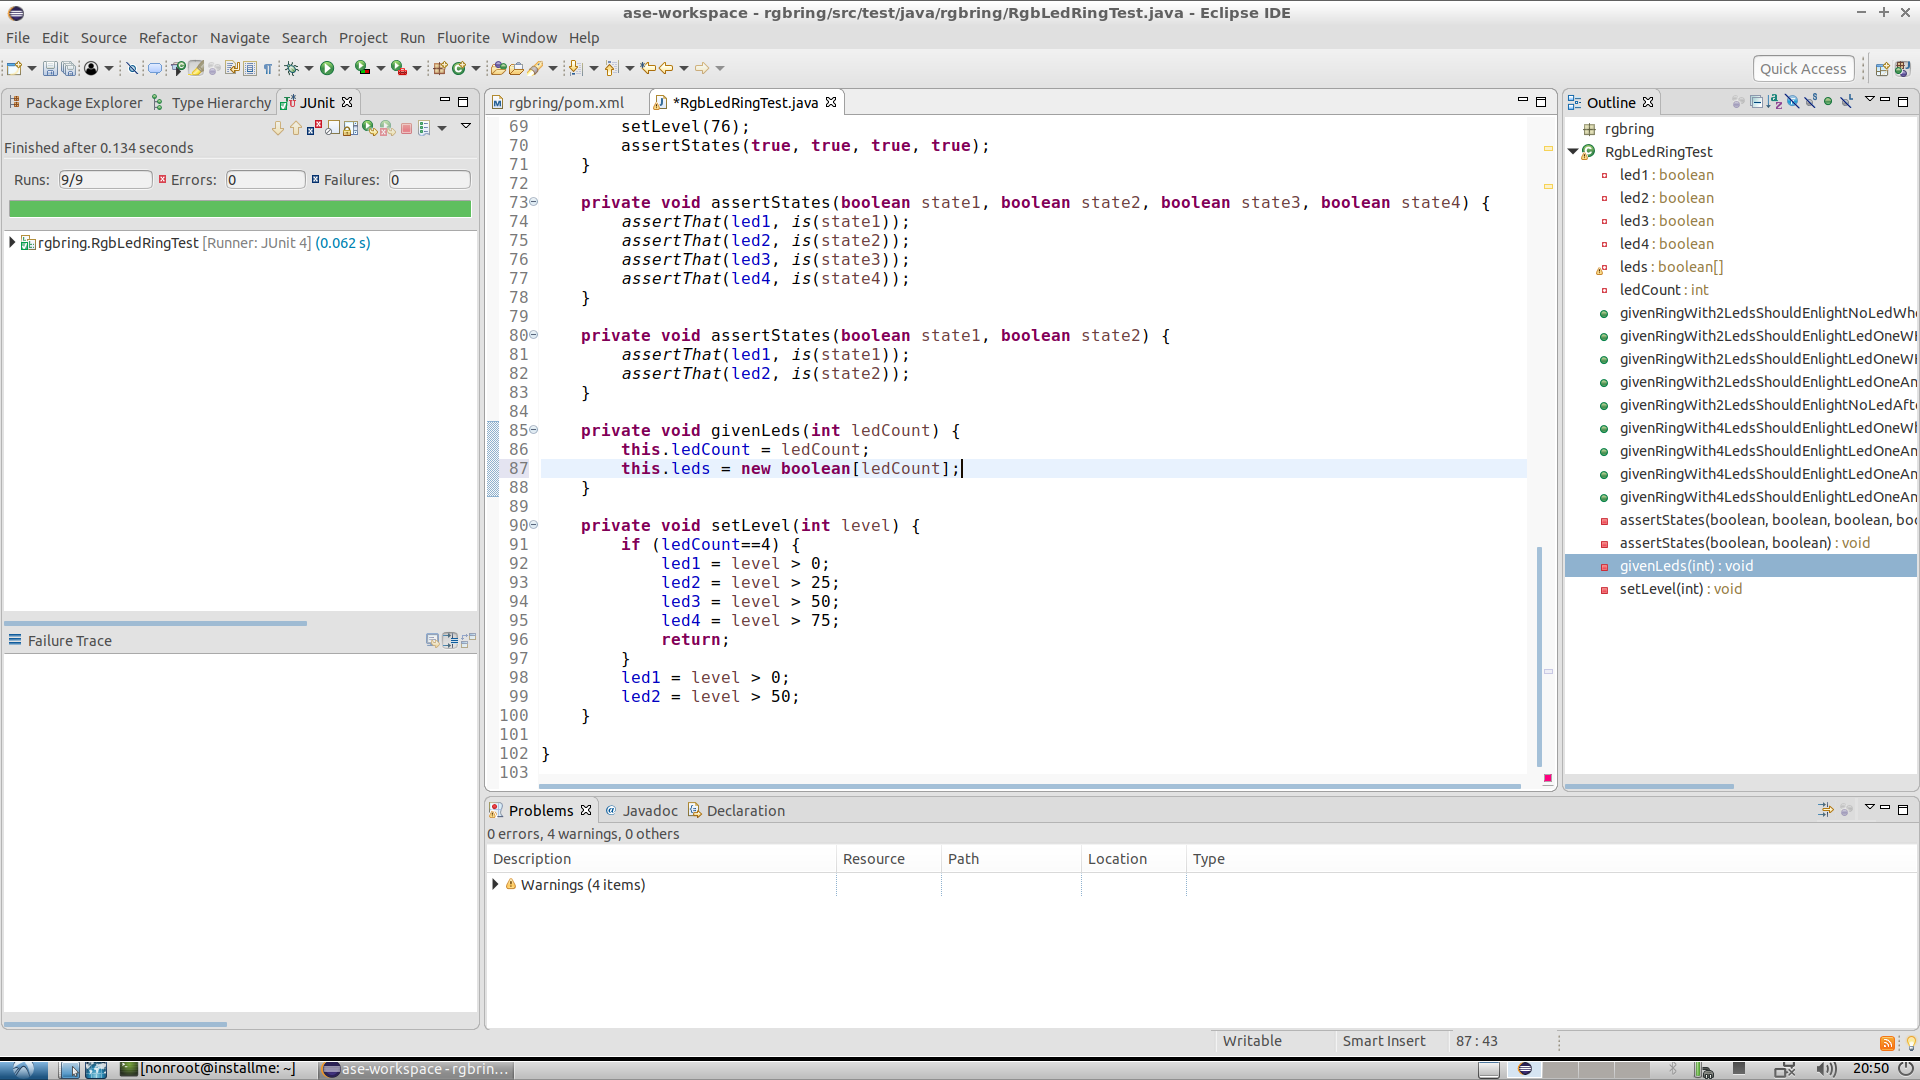
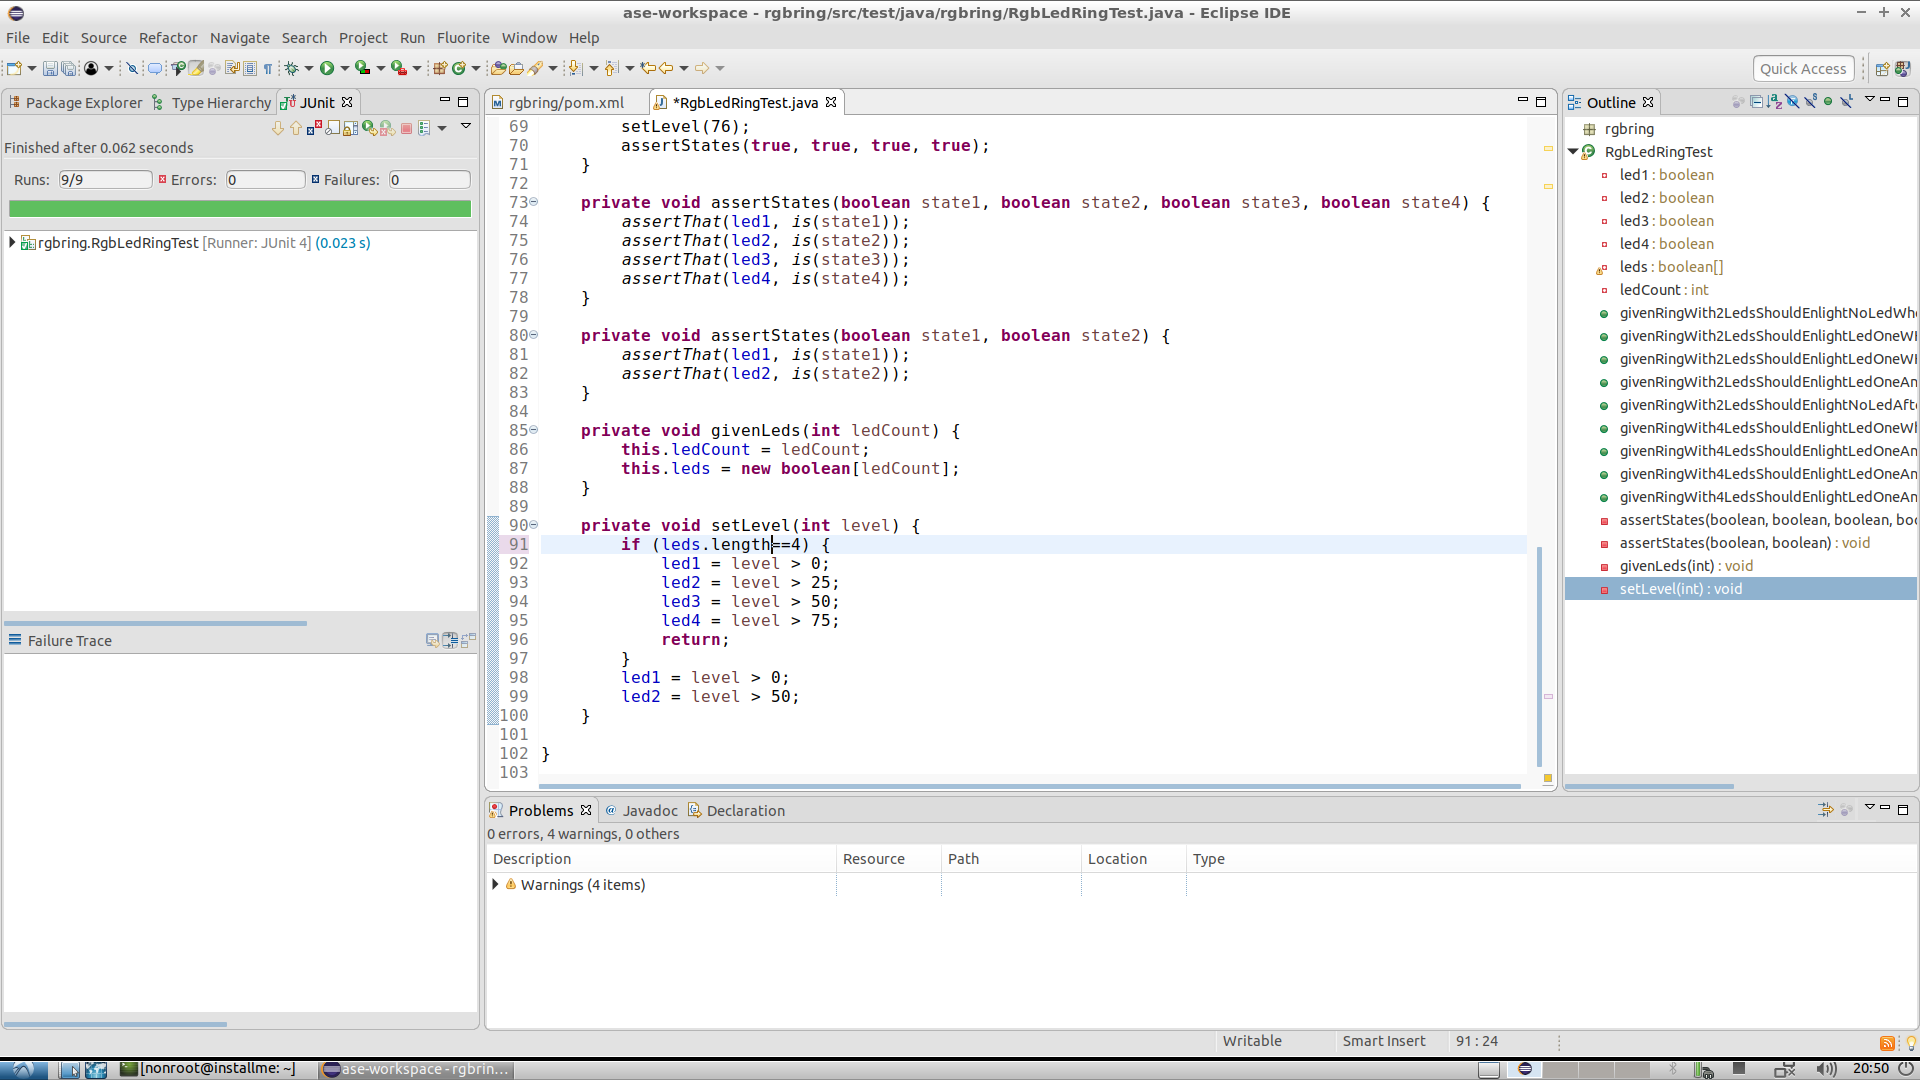
autocommit on change

diff --git a/src/test/java/rgbring/RgbLedRingTest.java b/src/test/java/rgbring/RgbLedRingTest.java
@@ -88,7 +88,7 @@ public class RgbLedRingTest {
 	}
 
 	private void setLevel(int level) {
-		if (ledCount==4) {
+		if (leds.length==4) {
 			led1 = level > 0;
 			led2 = level > 25;
 			led3 = level > 50;
